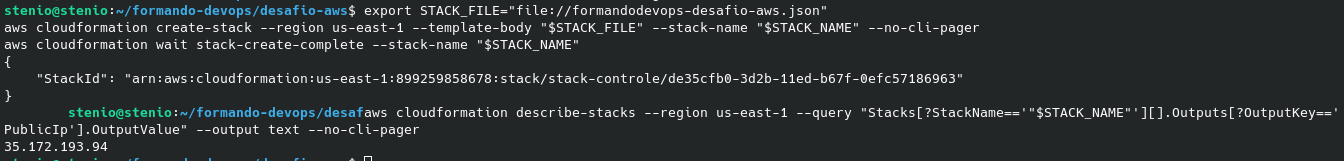
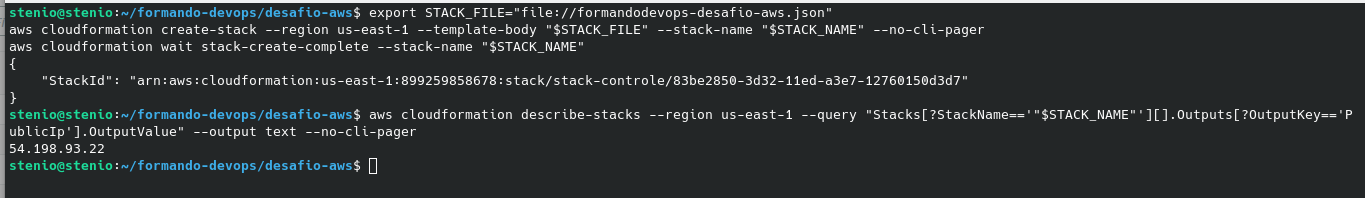
inclusão de novas respostas

Changed region(s): [[0.0, 0.0, 1.0, 1.0], [0.25, 0.9938, 0.2812, 1.0], [0.0938, 0.9938, 0.125, 1.0]]

diff --git a/desafio-aws/RESPOSTAS-AWS.md b/desafio-aws/RESPOSTAS-AWS.md
@@ -1,6 +1,28 @@
-# Respostas Desafio AWS
+## Respostas Desafio AWS
 
-## 1- Setup de ambiente
+### 1- Setup de ambiente
 
+Stack do ambiente criado conforme orientações
 ![](./Imagens-respostas/desafio-aws-1.png) 
 
+### 2 - Networking
+
+O erro é devido o Security Group estar liberando as portas TCP no intervalo 81 - 8080, para origem 0.0.0.0/1.
+Para corrigir e deixar o servidor web acessível, é necessário alterar a regra de entrada para liberar HTTP, na porta 80, para qualquer origem 0.0.0.0/0. Após isso, a página ficou acessível.
+
+![](./Imagens-respostas/desafio-aws-2.png) 
+
+![](./Imagens-respostas/desafio-aws-3.png)
+
+### 3 - EC2 Access
+
+Seguindo [esse tutorial da AWS](https://aws.amazon.com/pt/premiumsupport/knowledge-center/ec2-windows-replace-lost-key-pair/), posso substituir o par de chaves perdidos na instância que está rodando por meio de uma automação pronta do Systems Manager.
+
+Vou no item `Automação > Executar` e escolho o documento `AWSSupport-ResetAccess`.
+![](./Imagens-respostas/desafio-aws-4.png) 
+
+coloco o id da minha instância `i-076e83ec1d3d9ae9c`, executo e aguardo a conclusão.
+![](./Imagens-respostas/desafio-aws-6.png) 
+
+Após isso, vou em `Systems Manager > Parameter Store` e lá estará a nova chave privada criptografada que usarei para acessar a instância. Copio o conteúdo da chave, crio um arquivo de texto na minha máquina local chamado `chave.pem` e altero as permissões para 400. Após isso, preciso alterar o Security Group do servidor web para permitir acesso via SSH do meu IP, e poderei acessar normalmente a instância, e incluir meu nome no arquivo `/var/www/html/index.html`. 
+![](./Imagens-respostas/desafio-aws-7.png) 
